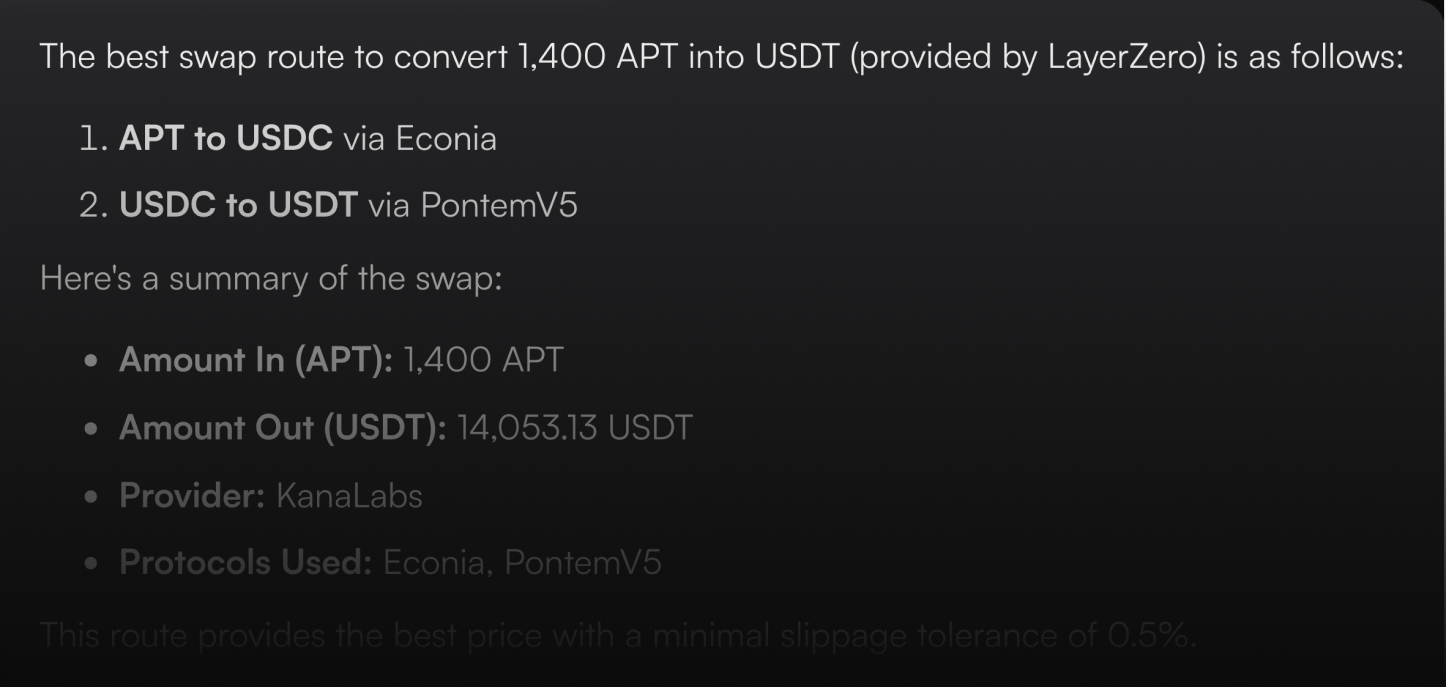
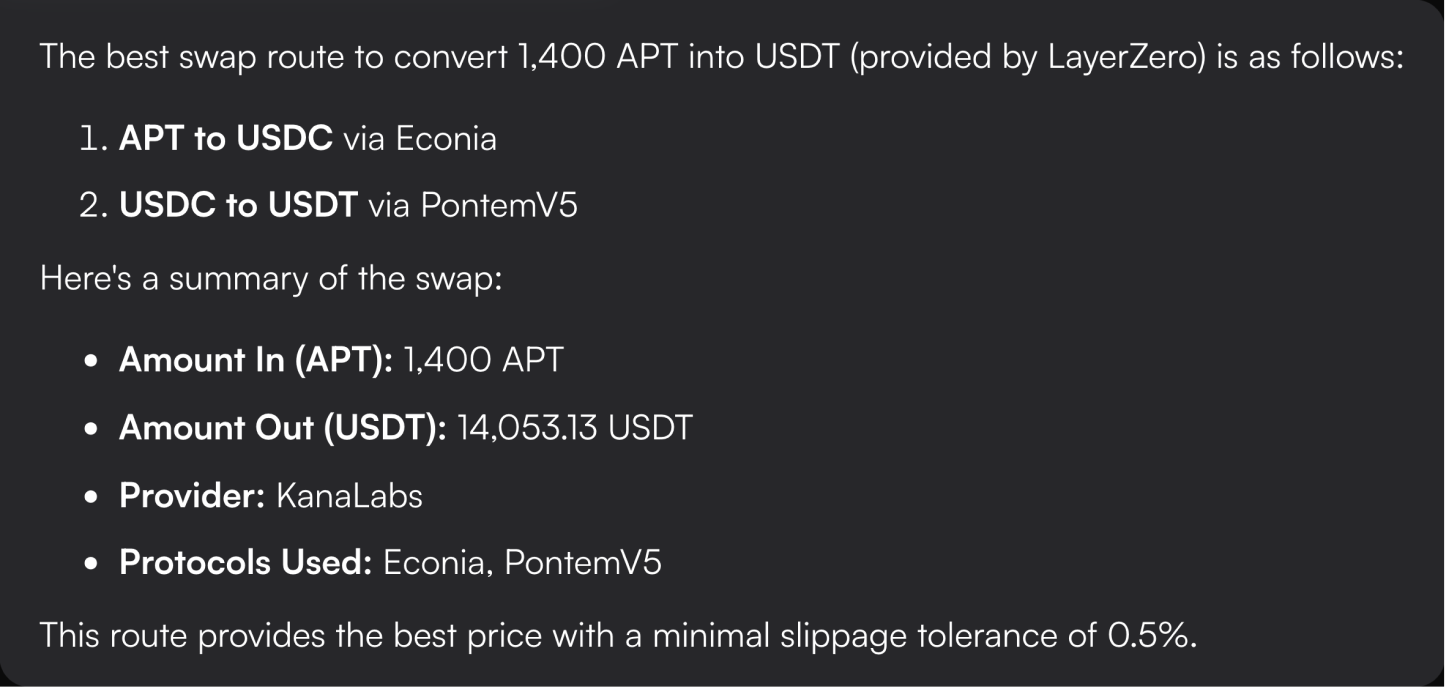
Implement mouse parallex to `BrandBadge`

diff --git a/packages/frontend/src/landing/sections/AptosAssistantSection.tsx b/packages/frontend/src/landing/sections/AptosAssistantSection.tsx
@@ -1,6 +1,8 @@
 import styled from '@emotion/styled';
+import { useAnimation } from 'framer-motion';
 import { User } from 'lucide-react';
 import Image from 'next/image';
+import { useEffect, useRef } from 'react';
 
 import aptosAssistantIllust from '@/assets/aptos-assistant.png';
 import example1 from '@/assets/example-1.png';
@@ -12,8 +14,47 @@ import { Reveal } from '@/components/Reveal';
 import { BrandBadge } from '../components/BrandBadge';
 
 export const AptosAssistantSection: React.FC = () => {
+  const imgAnimation = useAnimation();
+  const containerRef = useRef<HTMLDivElement>(null);
+
+  useEffect(() => {
+    let animating = false;
+
+    const handleMouseMove = (e: MouseEvent) => {
+      if (animating) {
+        return;
+      }
+      animating = true;
+
+      return requestAnimationFrame(() => {
+        const { clientX, clientY } = e;
+        const moveX = clientX - window.innerWidth / 2;
+        const moveY = clientY - window.innerHeight / 2;
+        const offsetFactor = 15;
+        imgAnimation.start({
+          x: moveX / offsetFactor,
+          y: moveY / offsetFactor,
+        });
+
+        animating = false;
+      });
+    };
+
+    if (!containerRef.current) {
+      return;
+    }
+    containerRef.current.addEventListener('mousemove', handleMouseMove);
+
+    return () => {
+      if (!containerRef.current) {
+        return;
+      }
+      containerRef.current.removeEventListener('mousemove', handleMouseMove);
+    };
+  }, []);
+
   return (
-    <Container>
+    <Container ref={containerRef}>
       <Reveal cascade>
         <Title>
           THE ALL NEW <br />
@@ -30,7 +71,7 @@ export const AptosAssistantSection: React.FC = () => {
             What are the top ecosystem projects on Aptos?
           </UserMessage>
         </Reveal>
-        <BrandBadge brand="DefiLlama" />
+        <BrandBadge brand="DefiLlama" animate={imgAnimation} />
       </Group1>
       <Reveal delay={200}>
         <AssistantMessageImage1 alt="" src={example1} />
@@ -55,22 +96,30 @@ export const AptosAssistantSection: React.FC = () => {
         </Reveal>
         <BrandBadge
           brand="Nodit"
+          animate={imgAnimation}
+          transition={{ damping: 15 }}
           style={{ position: 'absolute', top: -17, left: 277 }}
         />
         <BrandBadge
           brand="KanaSwap"
+          animate={imgAnimation}
           style={{ position: 'absolute', top: 15, left: 325 }}
         />
         <BrandBadge
           brand="Econia"
+          animate={imgAnimation}
+          transition={{ damping: 8 }}
           style={{ position: 'absolute', top: 96, left: 357, zIndex: 1 }}
         />
         <BrandBadge
           brand="Pontem"
+          animate={imgAnimation}
           style={{ position: 'absolute', top: 126, left: 433, zIndex: 2 }}
         />
         <BrandBadge
           brand="SushiSwap"
+          animate={imgAnimation}
+          transition={{ damping: 20 }}
           style={{ position: 'absolute', top: 290, left: -6, zIndex: 3 }}
         />
 
@@ -78,7 +127,10 @@ export const AptosAssistantSection: React.FC = () => {
           <AssistantMessageImage3 alt="" src={example3} />
         </Reveal3>
         <Reveal4 delay={400}>
-          <AssistantMessageImage4 alt="" src={example4} />
+          <Image4Wrapper>
+            <AssistantMessageImage4 alt="" src={example4} />
+            <Overlay />
+          </Image4Wrapper>
         </Reveal4>
       </Group>
     </Container>
@@ -201,8 +253,23 @@ const Reveal4 = styled(Reveal)`
   top: 280px;
   left: 197px;
 `;
-const AssistantMessageImage4 = styled(Image)`
+const Image4Wrapper = styled.div`
   width: 482px;
   height: 229px;
   box-shadow: -4px -8px 32px 0px rgba(0, 0, 0, 0.25);
+  position: relative;
+`;
+const AssistantMessageImage4 = styled(Image)`
+  width: 100%;
+  height: 100%;
+`;
+const Overlay = styled.div`
+  position: absolute;
+  top: 0;
+  left: 0;
+  right: 0;
+  bottom: 0;
+  width: 100%;
+  height: 100%;
+  background: linear-gradient(180deg, rgba(11, 11, 11, 0) 0%, #0b0b0b 100%);
 `;

diff --git a/packages/frontend/src/landing/components/BrandBadge.tsx b/packages/frontend/src/landing/components/BrandBadge.tsx
@@ -1,20 +1,26 @@
 import styled from '@emotion/styled';
+import { MotionProps, motion } from 'framer-motion';
 
 import { Brands } from '@/constants/brands';
 
-type BrandBadgeProps = React.HTMLAttributes<HTMLDivElement> & {
+type BrandBadgeProps = MotionProps & {
   brand: keyof typeof Brands;
+  style?: React.CSSProperties;
 };
 export const BrandBadge: React.FC<BrandBadgeProps> = ({ brand, ...props }) => {
   const info = Brands[brand];
+
   return (
-    <BrandBadgeContainer {...props}>
+    <BrandBadgeContainer
+      transition={{ ease: 'linear', ...props.transition }}
+      {...props}
+    >
       <BrandBadgeImage src={info.src} />
       <BrandBadgeText style={{ color: info.color }}>{info.name}</BrandBadgeText>
     </BrandBadgeContainer>
   );
 };
-const BrandBadgeContainer = styled.div`
+const BrandBadgeContainer = styled(motion.div)`
   display: inline-flex;
   padding: 6px 8px;
   align-items: center;
